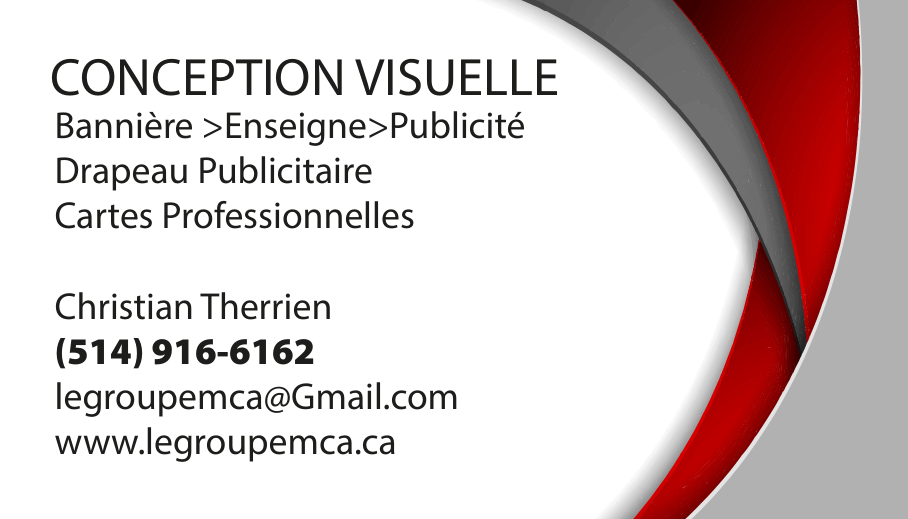
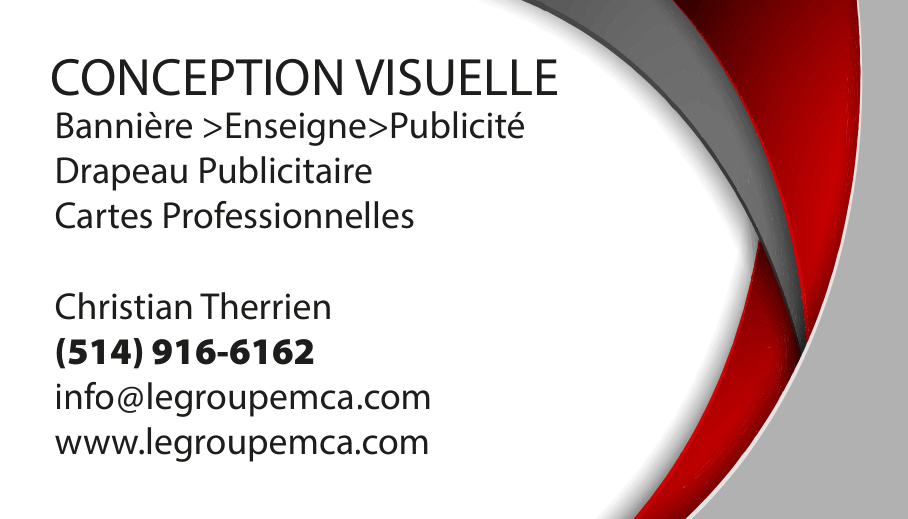
Site : carte recto-verso qui pivote (verso a jour legroupemca.com), tissu 110 g / 130 g Glossy, apercu avec une carte

Changed region(s): [[0.0617, 0.7399, 0.5242, 0.8015], [0.4009, 0.8324, 0.4934, 0.894]]

diff --git a/index.html b/index.html
@@ -371,6 +371,28 @@ h2{font-family:var(--titre);font-variation-settings:"wdth" 108;font-size:clamp(1
 .carte-photo{width:100%;border-radius:10px;box-shadow:0 30px 60px -20px rgba(0,0,0,.8);
   transform:rotate(-3deg);transition:transform .6s var(--ease)}
 .cartes-bloc:hover .carte-photo{transform:rotate(0)}
+/* recto / verso : la carte pivote au clic (2026-09-25) */
+.carte-flip{display:block;width:100%;padding:0;border:0;background:none;cursor:pointer;perspective:1400px;
+  transform:rotate(-3deg);transition:transform .6s var(--ease)}
+.cartes-bloc:hover .carte-flip{transform:rotate(0)}
+.carte-flip .carte-photo,.cartes-bloc:hover .carte-flip .carte-photo{transform:none}
+.carte-int{display:grid;width:100%;transform-style:preserve-3d;transition:transform .8s var(--ease)}
+.carte-int>img{grid-area:1/1;backface-visibility:hidden;-webkit-backface-visibility:hidden;
+  transition:opacity 0s linear .4s}
+/* ⛔ backface-visibility SEUL ne suffit pas : mesuré le 2026-09-25, la 3D était APLATIE dans
+   ce bloc (le recto restait visible, carte tournée à 180°). On échange donc les faces à
+   mi-course (0,4 s sur 0,8 s : la carte est de profil, rien ne se voit). */
+.carte-int>.carte-verso{opacity:0}
+.carte-flip[aria-pressed="true"] .carte-recto{opacity:0}
+.carte-flip[aria-pressed="true"] .carte-verso{opacity:1}
+/* ⛔ spécificité PLUS FORTE que « .cartes-bloc:hover .carte-flip .carte-photo » (0,4,0) :
+   mesuré le 2026-09-25, le transform:none qui annule l'inclinaison de .carte-photo
+   écrasait aussi ce rotateY → les deux faces de dos, carte INVISIBLE. */
+.cartes-bloc .carte-flip .carte-int>.carte-verso.carte-photo{transform:rotateY(180deg)}
+.carte-flip[aria-pressed="true"] .carte-int{transform:rotateY(180deg)}
+.carte-flip:focus-visible{outline:2px solid var(--rouge,#c8102e);outline-offset:6px;border-radius:12px}
+.carte-astuce{margin-top:14px;font-size:13px;color:var(--gris-fonce);text-align:center}
+@media(prefers-reduced-motion:reduce){.carte-int{transition:none}}
 .carte-opts{display:grid;gap:18px}
 .carte-opts .rangee{display:flex;flex-direction:column;gap:8px}
 .carte-opts .et{font-size:12px;color:var(--gris-fonce)}
@@ -767,6 +789,12 @@ footer{border-top:1px solid var(--ligne);margin-top:40px}
     <p class="faces-expl" id="faces-expl-double" hidden
        data-fr="&lt;b&gt;Double face&lt;/b&gt; &lt;span class=&quot;option&quot;&gt;offert en option&lt;/span&gt; — le message se lit &lt;b&gt;à l'endroit des deux côtés&lt;/b&gt;. Pour un drapeau au bord de la route, visible des deux sens de la circulation."
        data-en="&lt;b&gt;Double-sided&lt;/b&gt; &lt;span class=&quot;option&quot;&gt;available as an option&lt;/span&gt; — the message reads &lt;b&gt;the right way from both sides&lt;/b&gt;. For a flag by the road, seen from both directions of traffic."><b>Double face</b> <span class="option">offert en option</span> — le message se lit <b>à l'endroit des deux côtés</b>. Pour un drapeau au bord de la route, visible des deux sens de la circulation.</p>
+    <!-- Le tissu (Christian, 2026-09-25 : « c'est du polyester sublimation 110 et optionnel
+         130 g glossy »). L'argument du 130 g vient de Logique_Metier_Produits § Glossy 130G :
+         trame plus serrée → l'encre reste en surface → couleurs plus vives. Aucun prix. -->
+    <p class="faces-expl faces-tissu"
+       data-fr="&lt;b&gt;Tissu&lt;/b&gt; — polyester 110 g imprimé par sublimation, inclus.&lt;br&gt;&lt;b&gt;Canvas 130 g Glossy&lt;/b&gt; &lt;span class=&quot;option&quot;&gt;offert en option&lt;/span&gt; — une trame plus serrée qui garde les couleurs plus vives."
+       data-en="&lt;b&gt;Fabric&lt;/b&gt; — 110 g dye-sublimated polyester, included.&lt;br&gt;&lt;b&gt;130 g Glossy canvas&lt;/b&gt; &lt;span class=&quot;option&quot;&gt;available as an option&lt;/span&gt; — a tighter weave that keeps colours more vivid."><b>Tissu</b> — polyester 110 g imprimé par sublimation, inclus.<br><b>Canvas 130 g Glossy</b> <span class="option">offert en option</span> — une trame plus serrée qui garde les couleurs plus vives.</p>
     <button type="button" class="faces-autre" id="faces-autre" data-fr="Voir un autre exemple ↻" data-en="See another example ↻">Voir un autre exemple ↻</button>
   </div>
 </section>
@@ -797,8 +825,20 @@ footer{border-top:1px solid var(--ligne);margin-top:40px}
          résout pas. Le montrer sur le site enverrait les visiteurs dans le vide.
          ⚠ Le fichier s/carte-mca-verso.png reste sur le disque : il redeviendra
          bon le jour où le verso sera réimprimé avec la bonne adresse. -->
+    <!-- ✅ VERSO RÉTABLI le 2026-09-25 (go de Christian) — legroupemca.com existe.
+         Les deux lignes ont été refaites avec les VRAIS glyphes de la carte :
+         info@legroupemca.com (courriel public, décision du 2026-09-12) et
+         www.legroupemca.com. Ancien verso : Projets/Site/carte-mca-verso.2026-09-24.legroupemca-ca.png.
+         La carte pivote au clic / au toucher. -->
     <figure style="margin:0">
-      <img class="carte-photo" src="s/carte-mca.png" alt="Carte professionnelle Le Groupe MCA" loading="lazy">
+      <button class="carte-flip" type="button" aria-pressed="false"
+              data-fr-label="Retourner la carte" data-en-label="Flip the card" aria-label="Retourner la carte">
+        <span class="carte-int">
+          <img class="carte-photo carte-recto" src="s/carte-mca.png" alt="Carte professionnelle Le Groupe MCA — recto" loading="lazy">
+          <img class="carte-photo carte-verso" src="s/carte-mca-verso.png" alt="Carte professionnelle Le Groupe MCA — verso" loading="lazy">
+        </span>
+      </button>
+      <figcaption class="carte-astuce" data-fr="↻ Touchez la carte pour voir le verso" data-en="↻ Tap the card to see the back">↻ Touchez la carte pour voir le verso</figcaption>
     </figure>
     <div class="carte-opts">
       <div class="rangee">
@@ -1652,8 +1692,13 @@ const apercu = document.getElementById('apercu-gal');
 fetch('galerie.json?v=2').then(r => r.json()).then(d => {
   if (Array.isArray(d)) d = {drapeaux: {fr: 'Drapeaux', en: 'Flags', photos: d}};
   GALS = d; CAT = Object.keys(d)[0];
-  apercu.innerHTML = GAL_DE(CAT).slice(0, 3)
-    .map(p => `<img src="s/gal/${p.f}" alt="" loading="lazy" decoding="async">`).join('');
+  /* Aperçu : grande photo de drapeau + UNE carte en haut à droite (Christian, 2026-09-25 :
+     les deux premières photos de drapeaux venaient du même commerce, et l'aperçu
+     disait « on ne fait que des drapeaux »). Sans rubrique cartes : 3 drapeaux. */
+  const dr = GAL_DE(CAT), ca = GAL_DE('cartes');
+  const trio = ca.length ? [dr[0], ca[0], dr[2] || dr[1]] : dr.slice(0, 3);
+  apercu.innerHTML = trio.filter(Boolean)
+    .map(p => `<img src="s/gal/${p.f}" alt="" loading="lazy" decoding="async" data-gal="${ca.includes(p) ? 'cartes' : CAT}">`).join('');
   rendreGalerie();
   const h = location.hash.match(/^#galerie-(\w+)$/);   // lien direct : #galerie-cartes
   if (h && GALS[h[1]]) ouvrirSalle(h[1]);
@@ -1710,7 +1755,11 @@ function fermerSalle(){
   if (f) f.focus();
 }
 portes.addEventListener('click', e => { const b = e.target.closest('.porte'); if (b) ouvrirSalle(b.dataset.cat); });
-apercu.addEventListener('click', () => ouvrirSalle(Object.keys(GALS)[0]));
+/* Chaque photo de l'aperçu ouvre SA galerie : la carte → Cartes (Christian, 2026-09-25). */
+apercu.addEventListener('click', e => {
+  const g = e.target.closest('img')?.dataset.gal;
+  ouvrirSalle(GALS[g] ? g : Object.keys(GALS)[0]);
+});
 apercu.style.cursor = 'zoom-in';
 onglets.addEventListener('click', e => { const b = e.target.closest('button'); if (b) ouvrirSalle(b.dataset.cat); });
 salle.querySelector('.fermer-salle').addEventListener('click', fermerSalle);
@@ -1894,6 +1943,10 @@ addEventListener('scroll', () => {
   jauge.style.width = (h > 0 ? scrollY/h*100 : 0) + '%';
 }, {passive:true});
 
+/* La carte professionnelle pivote : recto ↔ verso (Christian, 2026-09-25). */
+document.querySelectorAll('.carte-flip').forEach(b => b.addEventListener('click', () =>
+  b.setAttribute('aria-pressed', b.getAttribute('aria-pressed') === 'true' ? 'false' : 'true')));
+
 /* ───────────────────────────────────────────────────────────────────────────
    6. BILINGUE — data-fr / data-en sur l'élément. Aucun fichier de traduction.
    ─────────────────────────────────────────────────────────────────────────── */
@@ -1903,6 +1956,8 @@ bt.addEventListener('click', () => {
   bt.textContent = LANG === 'fr' ? 'EN' : 'FR';
   document.documentElement.lang = LANG;
   document.querySelectorAll('[data-fr]').forEach(el => el.innerHTML = el.dataset[LANG]);
+  document.querySelectorAll('[data-fr-label]').forEach(el =>
+    el.setAttribute('aria-label', LANG === 'fr' ? el.dataset.frLabel : el.dataset.enLabel));
   if (etat.logo) depot.querySelector('b').textContent = LANG==='fr' ? 'Logo posé ✓' : 'Logo applied ✓';
   rendreGalerie(); dessinerToile(); majRecap();
   // ⛔ la boucle [data-fr] réécrit AUSSI le bouton d'envoi : on lui rend son état
